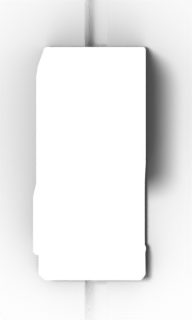
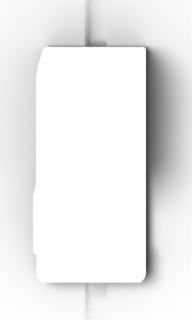
fix(panel): rounder cap corners, softer cap shadows, clean cap outline
Bevel 0.12 for the rounded corners; the cap shadow pass uses a softer,
wider sun (45 deg) at 1.4x; each cap section has a short upright foot wall
so the bevel shrinks the outline evenly (no step where the base band meets
the nose).

diff --git a/assets/blender/parts_cap.py b/assets/blender/parts_cap.py
@@ -24,10 +24,11 @@ NOSE_TOP_FRONT = -0.62  # front edge of the nose top
 # right wall slopes down to the full-width base
 NOSE_TOP_X = (-0.43, 0.12)
 NOSE_LEFT = -0.45  # EMPIRICAL: the nose base sticks out left of the block (silhouette fit)
-BASE_H = 0.10  # EMPIRICAL: low base band seen in front of the nose (reference)
+BASE_H = 0.14  # EMPIRICAL: low base band in front of the nose; kept above CAP_BEVEL so it rounds like the rest
 CAP_TAPER = 0.12  # EMPIRICAL: block top is about 0.88 of its base width (photo, front view)
-CAP_BEVEL = 0.09
+CAP_BEVEL = 0.12  # EMPIRICAL: reference cap corners read about 8 px rounded at 2x
 CAP_LIFT = 0.03  # cap floats above the plate so the slot shows under it
+FOOT_WALL = 0.06  # ASSUMED: upright strip at the foot of every wall
 # Layer-fader cap EMPIRICAL from its photo: a frustum, top smaller than the base on all sides,
 # rounded edges. Base 96 x 74 reference px.
 LAYER_W, LAYER_L, LAYER_H = 0.74, 0.61, 0.36
@@ -40,7 +41,16 @@ SLOT_W, SLOT_LEN, SLOT_DEPTH, PLATE_T = 0.17, 3.4, 0.16, 0.2
 def _section(y, z, top_x, left=-CAP_W / 2):
     """Cross-section at y: bottom from `left` to the right edge, top edge between `top_x`."""
     hb, zl = CAP_W / 2, CAP_LIFT
-    return [(left, y, zl), (hb, y, zl), (top_x[1], y, zl + z), (top_x[0], y, zl + z)]
+    v = min(FOOT_WALL, z * 0.5)  # short upright wall: every bottom edge is 90 deg, so the
+    # bevel shrinks the outline the same everywhere (sloped walls would bevel deeper)
+    return [
+        (left, y, zl),
+        (hb, y, zl),
+        (hb, y, zl + v),
+        (top_x[1], y, zl + z),
+        (top_x[0], y, zl + z),
+        (left, y, zl + v),
+    ]
 
 
 def fader_cap(m, key):
@@ -49,7 +59,8 @@ def fader_cap(m, key):
     the left because its right wall slopes steeply (reference and photos)."""
     ht, hn = CAP_HT, CAP_HN
     blk = (-CAP_W / 2 * (1 - CAP_TAPER), CAP_W / 2 * (1 - CAP_TAPER))
-    base = (-CAP_W / 2 + 0.02, CAP_W / 2 - 0.02)
+    side = CAP_W / 2 * (1 - CAP_TAPER * BASE_H / CAP_HT)  # same wall slope as the block
+    base = (-side, side)
     secs = [
         (CAP_BACK, ht * 0.86, blk),
         (CAP_BACK - 0.08, ht, blk),

diff --git a/assets/blender/build_proof.py b/assets/blender/build_proof.py
@@ -38,6 +38,9 @@ import proof_scene as S  # noqa: E402
 ARGV = sys.argv[sys.argv.index("--") + 1 :] if "--" in sys.argv else []
 QUICK = "--quick" in ARGV
 QUICK_FRAMES = (0, 9, 16, 32, 47, 63)
+# EMPIRICAL: the reference cap shadows are darker than the scene sun gives; shadow pass only
+CAP_SHADOW_GAIN = 1.4
+CAP_SHADOW_ANGLE = math.radians(45)  # EMPIRICAL: soft, wide penumbra like the reference
 
 
 def fresh(scale: int, name: str, lean: str) -> dict:
@@ -112,6 +115,8 @@ def render_caps(out: Path, scale: int) -> None:
         cy.use_denoising, cy.samples = False, 64  # unlit texture: no noise, keep it sharp
         S.render(out / f"{name}_{scale}x.png")
         m = fresh(scale, shadow, name)
+        sun = bpy.data.objects["sun"].data
+        sun.energy, sun.angle = S.SUN_STRENGTH * CAP_SHADOW_GAIN, CAP_SHADOW_ANGLE
         S.flags(C.plate_slot(M.catcher_mats()), catcher=True)
         S.flags(make(m, "cap_black"), holdout=True)
         S.render(out / f"{shadow}_{scale}x.png")
